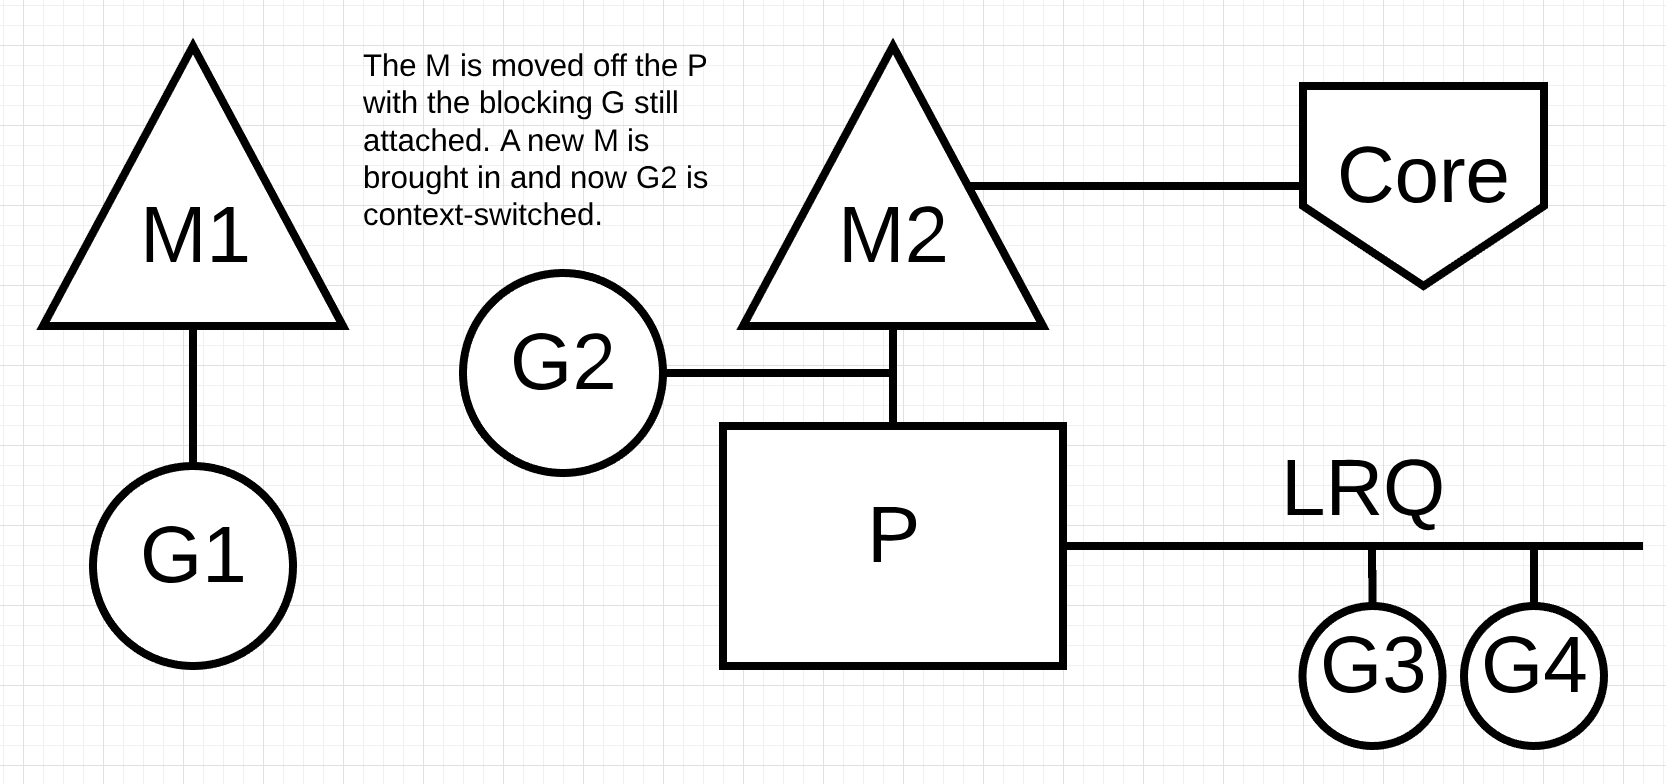
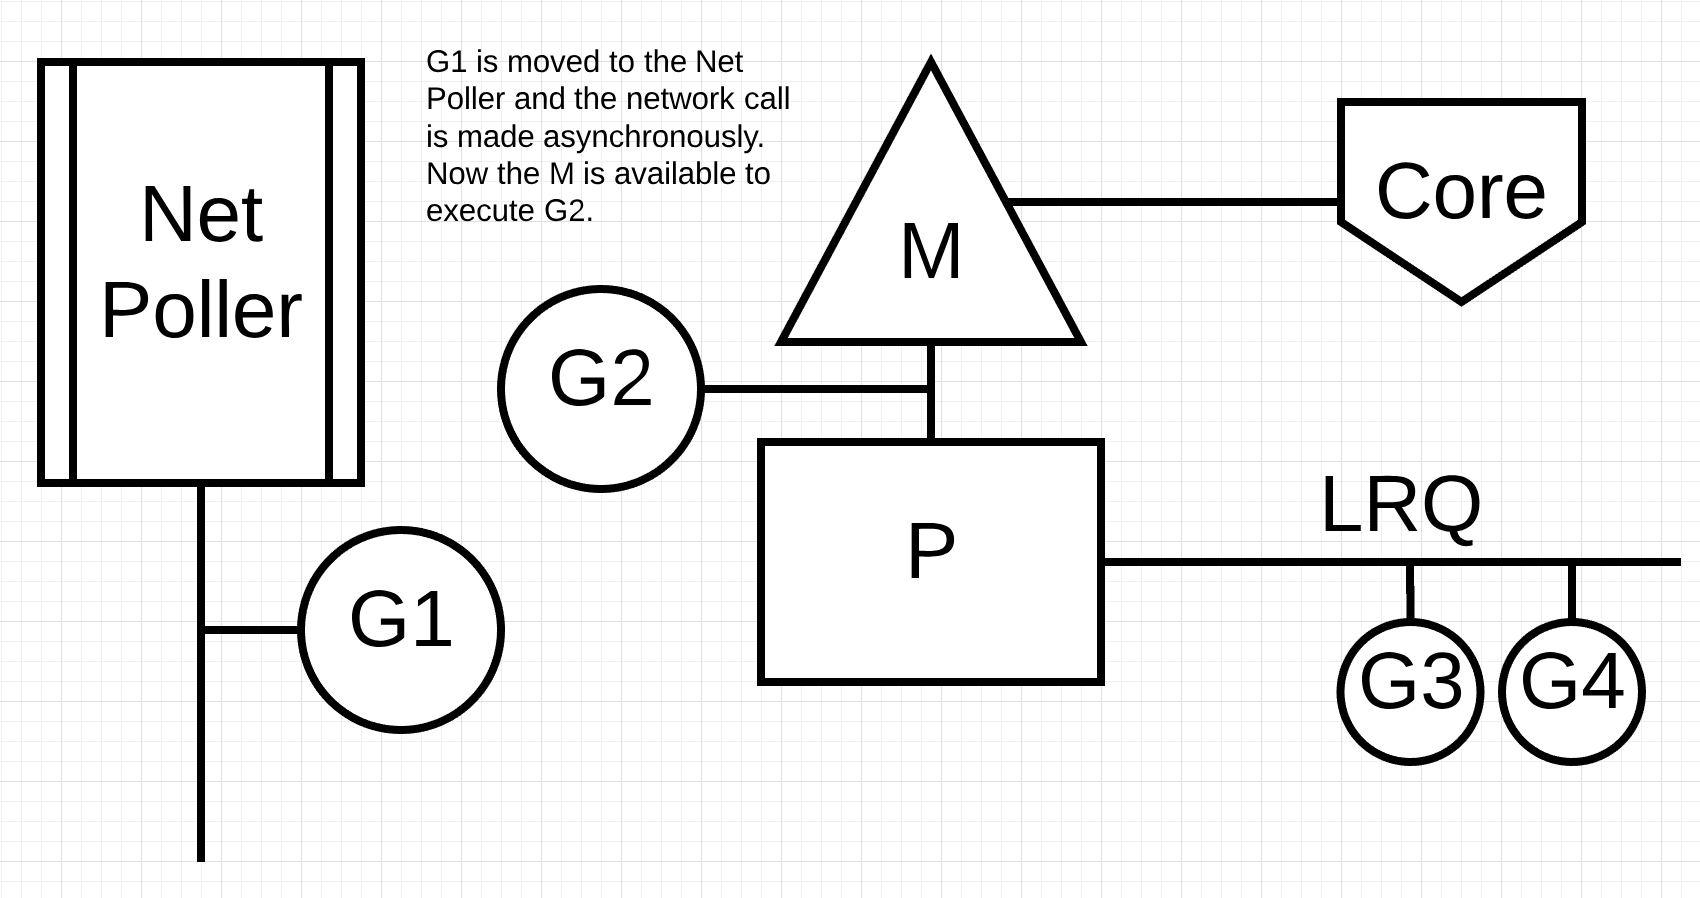
GITBOOK-62: change request with no subject merged in GitBook

Changed region(s): [[0.0, 0.0306, 0.9988, 0.9796], [0.4994, 0.5816, 0.5618, 0.7041], [0.6242, 0.1531, 0.6555, 0.1837]]

diff --git a/go-in-depth/escape-analysis.md b/go-in-depth/escape-analysis.md
@@ -1,0 +1,156 @@
+# Escape Analysis
+
+The Go compiler uses escape analysis to determine _which variables should be allocated on the stack of a goroutine and which variables should be allocated on the heap._
+
+{% tabs %}
+{% tab title="Go" %}
+The compiler will try to allocate a variable to the local stack frame of the function in which it is declared. However, it is also able to perform _escape analysis_: if it cannot prove that a variable is not referenced after the function returns, then it allocates it on the _heap_ instead.
+
+Output: `42`
+
+{% code lineNumbers="true" %}
+```go
+package main
+
+import (
+    "fmt"
+)
+
+func f() *int {
+    a := 42
+    return &a
+}
+
+func main() {
+    defer profile.Start(profile.TraceProfile, profile.ProfilePath(".")).Stop()
+    fmt.Printf("%d", *f())
+}
+```
+{% endcode %}
+
+<figure><img src="../.gitbook/assets/image (11).png" alt=""><figcaption></figcaption></figure>
+
+The heap footprint increases with time. At a certain point, the GC runs and cleans up the heap, before it starts growing again.
+
+We can rewrite the program so that there is no reference to `a` outside of the stack frame, then the variable doesn’t escape to the heap.
+
+{% code lineNumbers="true" %}
+```go
+package main
+
+import (
+    "github.com/pkg/profile"
+)
+
+func f() int {
+    a := 42
+    return a
+}
+
+func main() {
+    defer profile.Start(profile.TraceProfile, profile.ProfilePath(".")).Stop()
+    for i := 0; i < 1000000; i++ {
+        f()
+    }
+}
+
+// go build -o ./main -gcflags=-m ./main.go
+// # command-line-arguments
+// ./main.go:7:6: can inline f
+// ./main.go:15:4: inlining call to f
+// ./main.go:13:21: ... argument does not escape
+```
+{% endcode %}
+
+<figure><img src="../.gitbook/assets/image (13).png" alt=""><figcaption></figcaption></figure>
+
+&#x20;`a` does not escape to the heap, since it is not modified “above” `f`’s stack frame, (only “below”, in `g`’s).
+
+{% code lineNumbers="true" %}
+```go
+package main
+
+func g(a *int) {
+    *a++
+}
+
+func f() int {
+    a := 42
+    g(&a)
+    return a
+}
+
+func main() {
+    for i := 0; i < 1000000; i++ {
+        f()
+    }
+}
+
+// go build -o ./main -gcflags=-m ./main.go
+// # command-line-arguments
+// ./main.go:9:6: can inline g
+// ./main.go:13:6: can inline f
+// ./main.go:15:3: inlining call to g
+// ./main.go:22:4: inlining call to f
+// ./main.go:22:4: inlining call to g
+// ./main.go:9:8: a does not escape
+```
+{% endcode %}
+
+If we execute `g` in a goroutine, we find that `a` escapes to the heap.
+
+{% code lineNumbers="true" %}
+```go
+package main
+
+func g(a *int) {
+    *a++
+}
+
+func f() int {
+    a := 42
+    go g(&a) // yes, this is a race condition, but this is just a demo :)
+    return a
+}
+
+func main() {
+    for i := 0; i < 1000000; i++ {
+        f()
+    }
+}
+
+// go build -o ./main -gcflags=-m ./main.go
+// # command-line-arguments
+// ./main.go:3:6: can inline g
+// ./main.go:3:8: a does not escape
+// ./main.go:8:2: moved to heap: a
+```
+{% endcode %}
+
+This is because each goroutine has its own stack. As a result, the compiler cannot guarantee that `f`’s stack hasn’t been popped (invalidating `a`) when `g` accesses it. Therefore, the variable must live on the heap.
+{% endtab %}
+
+{% tab title="C" %}
+In C, the variable lives in the stack frame of `f()`. When the function returns, the stack is popped and the memory addresses of any variables in that frame become invalid. Accessing them leads to a segmentation fault.
+
+Output: `main.c:6:12: warning: function returns address of local variable [-Wreturn-local-addr]`\
+`Segmentation fault (core dumped)`
+
+{% code lineNumbers="true" %}
+```c
+#include <stdio.h>
+int* f() {
+    int a;
+    a = 42;
+    return &a;
+}
+void main()
+{
+    printf("%d", *f());
+}
+```
+{% endcode %}
+{% endtab %}
+{% endtabs %}
+
+The way a variable is used - not declared - determines whether it lives on the stack or the heap.

diff --git a/go-in-depth/go-scheduler.md b/go-in-depth/go-scheduler.md
@@ -19,7 +19,7 @@ Each <mark style="background-color:green;">**P**</mark> is given a <mark style="
 
 The <mark style="background-color:red;">**GRQ**</mark> is for Goroutines that have not been assigned to a <mark style="background-color:green;">**P**</mark> yet.
 
-<figure><img src="../.gitbook/assets/image (4).png" alt=""><figcaption></figcaption></figure>
+<figure><img src="../.gitbook/assets/image (3).png" alt=""><figcaption></figcaption></figure>
 
 ## Goroutine States
 
@@ -41,7 +41,7 @@ When the OS you are running on has the ability to handle a system call asynchron
 
 * Goroutine-1 wants to make a network system call, so Goroutine-1 is moved to the network poller and the asynchronous network system call is processed. Once Goroutine-1 is moved to the network poller, the M is now available to execute a different Goroutine from the LRQ. In this case, Goroutine-2 is context-switched on the M.
 
-<figure><img src="../.gitbook/assets/image (11).png" alt=""><figcaption></figcaption></figure>
+<figure><img src="../.gitbook/assets/image (12).png" alt=""><figcaption></figcaption></figure>
 
 * The asynchronous network system call is completed by the network poller and Goroutine-1 is moved back into the LRQ for the P. Once Goroutine-1 can be context-switched back on the M, the Go related code it’s responsible for can execute again. The big win here is that, to execute network system calls, no extra Ms are needed. The network poller has an OS Thread and it is handling an efficient event loop.
 
@@ -54,14 +54,14 @@ The network poller can’t be used and the Goroutine making the system call is g
 
 * Goroutine-1 is going to make a synchronous system call that will block M1.
 
-<figure><img src="../.gitbook/assets/image (3).png" alt=""><figcaption></figcaption></figure>
+<figure><img src="../.gitbook/assets/image (4).png" alt=""><figcaption></figcaption></figure>
 
 *   The scheduler is able to identify that Goroutine-1 has caused the M to block. At this point, the scheduler detaches M1 from the P with the blocking Goroutine-1 still attached. Then the scheduler brings in a new M2 to service the P. At that point, Goroutine-2 can be selected from the LRQ and context-switched on M2. If an M already exists because of a previous swap, this transition is quicker than having to create a new M.
 
     \
 
 
-    <figure><img src="../.gitbook/assets/image (12).png" alt=""><figcaption></figcaption></figure>
+    <figure><img src="../.gitbook/assets/image (14).png" alt=""><figcaption></figcaption></figure>
 *   The blocking system call that was made by Goroutine-1 finishes. At this point, Goroutine-1 can move back into the LRQ and be serviced by the P again. M1 is then placed on the side for future use if this scenario needs to happen again.
 
     \
@@ -87,7 +87,7 @@ helps to balance the Goroutines across all the P’s so the work is better distr
 
 * P2 finished all its work and now needs to steal some. First, it will look at the LRQ of P1 but it won’t find any Goroutines. Next, it will look at the GRQ. There it will find Goroutine-9.
 
-<figure><img src="../.gitbook/assets/image (13).png" alt=""><figcaption></figcaption></figure>
+<figure><img src="../.gitbook/assets/image (15).png" alt=""><figcaption></figcaption></figure>
 
 * P2 steals Goroutine-9 from the GRQ and begins to execute the work.
 

diff --git a/go-in-depth/gos-garbage-collection.md b/go-in-depth/gos-garbage-collection.md
@@ -24,7 +24,7 @@ When a collection starts, the collector runs through three phases of work:
 * When a collection starts, the first activity that must be performed is turning on the Write Barrier. The purpose of the Write Barrier is to allow the collector to maintain data integrity on the heap during a collection since both the collector and application goroutines will be running concurrently.
 * In order to turn the Write Barrier on, every application goroutine running must be stopped. This activity is usually very quick, within 10 to 30 microseconds on average. That is, as long as the application goroutines are behaving properly.
 
-<figure><img src="../.gitbook/assets/image (14).png" alt=""><figcaption></figcaption></figure>
+<figure><img src="../.gitbook/assets/image (16).png" alt=""><figcaption></figcaption></figure>
 
 **Marking - Concurrent**
 

diff --git a/SUMMARY.md b/SUMMARY.md
@@ -33,3 +33,4 @@
 * [Go/Java Concurrency](go-in-depth/go-java-concurrency.md)
 * [Go Scheduler](go-in-depth/go-scheduler.md)
 * [Go's Garbage Collection](go-in-depth/gos-garbage-collection.md)
+* [Escape Analysis](go-in-depth/escape-analysis.md)
